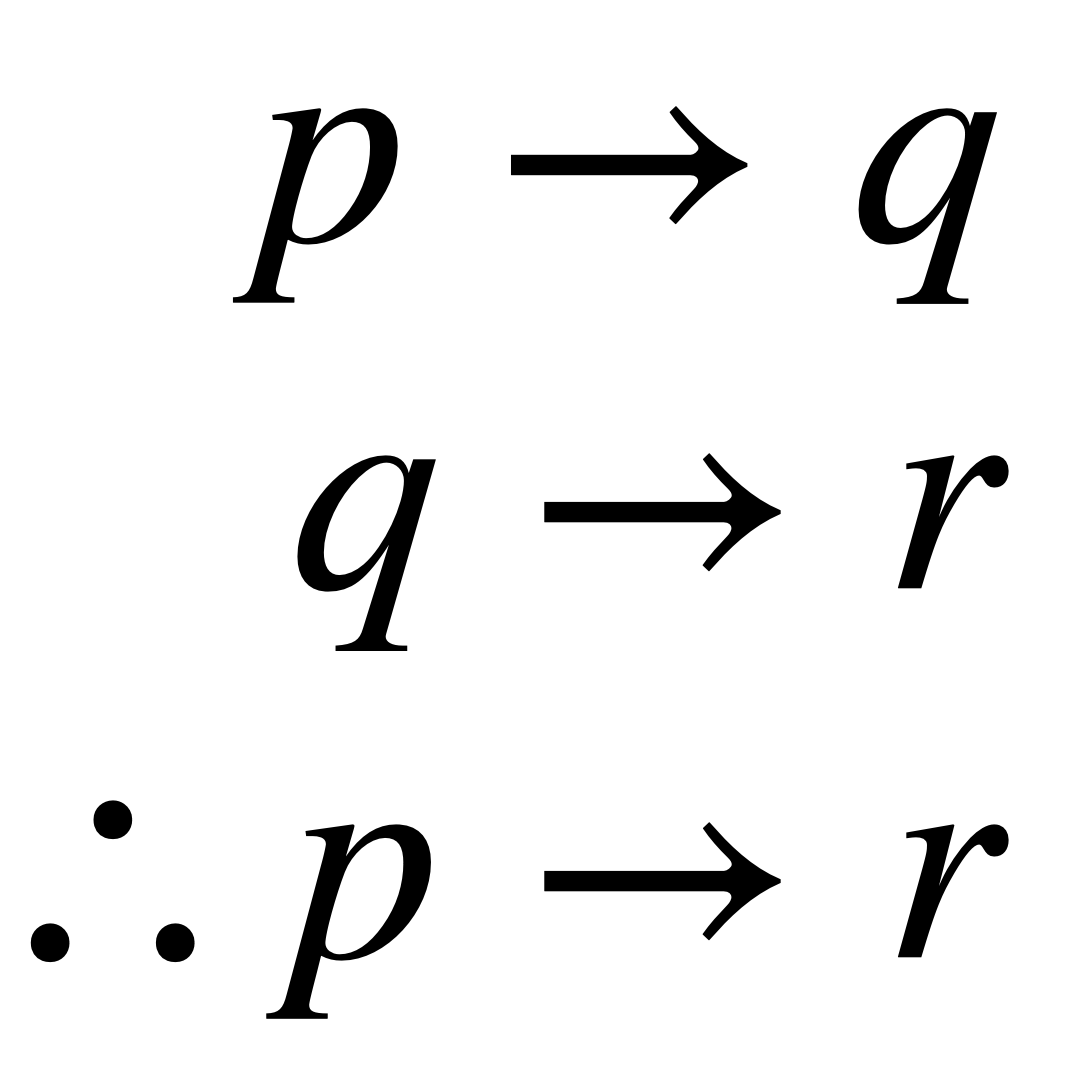
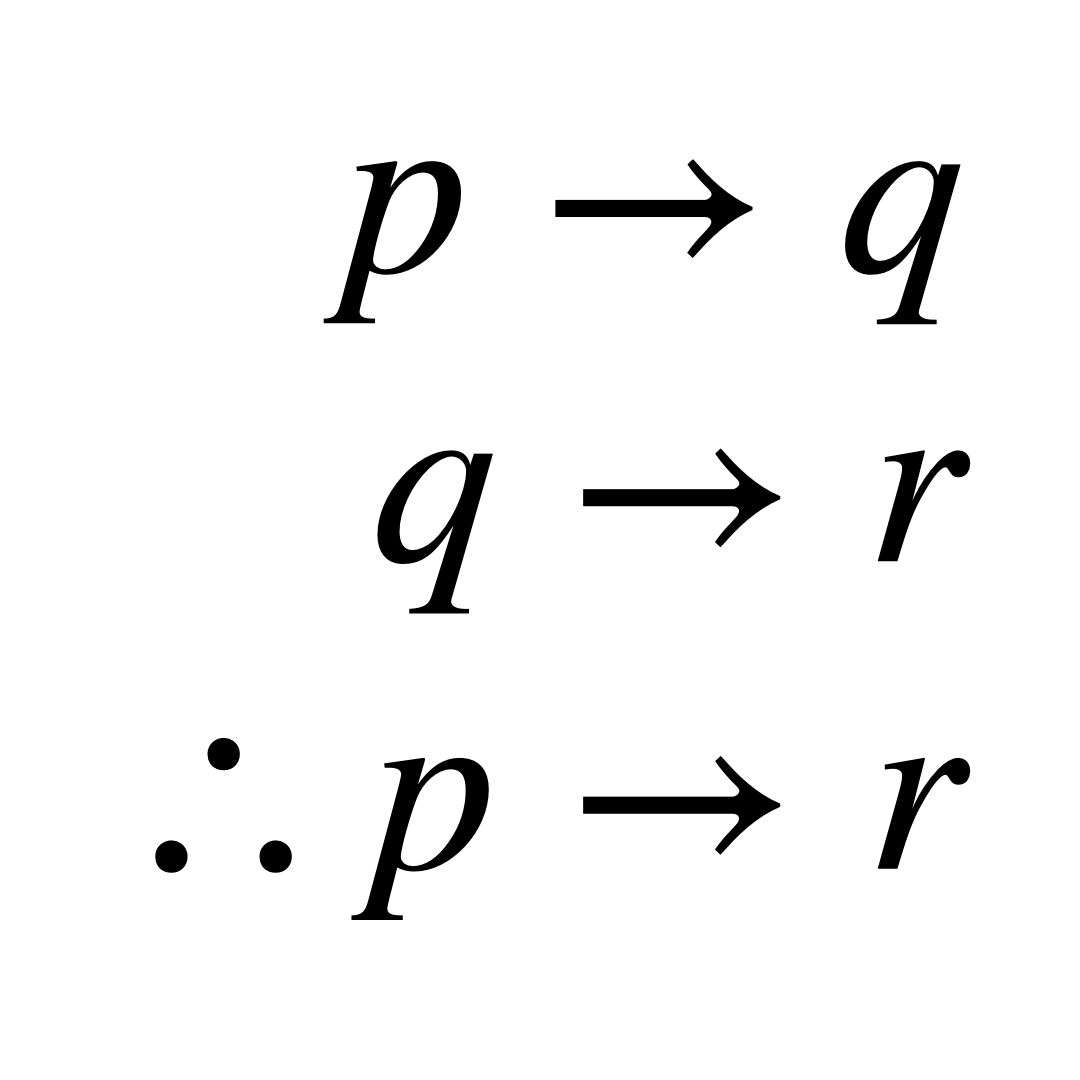
Colour page, taxt and multiline page

diff --git a/pages/text.html b/pages/text.html
@@ -1,0 +1,81 @@
+<!DOCTYPE html>
+<html>
+    <head>
+        <title>Set Theory</title>
+        <link rel="stylesheet" type="text/css" href="../style.css">
+    </head>
+    <body>
+
+
+        <p class="website-header">
+
+             <a id="home"  href="../index.html"> Home</a>
+             <a id="connect"  href="connect.html"> Connect</a>
+         </p>
+
+
+
+         <h1>Text, Multiline expressions and Alignment</h1>
+
+
+         <table>
+            <tr>
+                <th> Operation </th>
+                <th> Result </th>
+                <th> LaTeX code </th>
+            </tr>
+
+            <tr>
+                <td class="first_column"> Text <br><em class="additional">you can use spaces</em></td>
+                <td class="second_column"> <img src="../images/text_and_multiline/03.png"> </td>
+                <td class="third_column"> \text {hey !} </td>
+            </tr>
+
+            <tr>
+                <td class="first_column"> Right aligned </td>
+                <td class="second_column"> <img src="../images/text_and_multiline/01.png">  </td>
+                <td class="third_column"> \begin{equation} <br>
+                                            \begin{split} <br>
+                                            \begin{aligned} <br> <br>
+
+                                            p\rightarrow  q  \\ <br>
+                                            q \rightarrow r \\ <br>
+                                            \therefore p \rightarrow r <br> <br>
+
+                                            \end{aligned} <br>
+                                            \end{split} <br>
+                                            \end{equation} </td>
+            </tr>
+
+
+             <tr>
+                <td class="first_column"> Left aligned </td>
+                <td class="second_column"> <img src="../images/text_and_multiline/02.png">  </td>
+                <td class="third_column"> \begin{equation} <br>
+                                            \begin{split} <br>
+                                            \begin{aligned} <br> <br>
+
+                                            & p\rightarrow  q  \\ <br>
+                                            & q \rightarrow r \\ <br>
+                                            & \therefore p \rightarrow r <br> <br>
+
+                                            \end{aligned} <br>
+                                            \end{split} <br>
+                                            \end{equation} </td>
+            </tr>
+
+
+            </td>
+            </tr>
+
+         </table>
+
+
+
+
+
+        <footer> <p> &copy 2022 - Liz Aryslanova </p> </footer>
+
+
+    </body>
+</html>

diff --git a/pages/colour.html b/pages/colour.html
@@ -1,0 +1,55 @@
+<!DOCTYPE html>
+<html>
+    <head>
+        <title>Set Theory</title>
+        <link rel="stylesheet" type="text/css" href="../style.css">
+    </head>
+    <body>
+
+
+        <p class="website-header">
+
+             <a id="home"  href="../index.html"> Home</a>
+             <a id="connect"  href="connect.html"> Connect</a>
+         </p>
+
+
+
+         <h1>Colour</h1>
+
+
+         <table>
+            <tr>
+                <th> Operation </th>
+                <th> Result </th>
+                <th> LaTeX code </th>
+            </tr>
+
+            <tr>
+                <td class="first_column"> The entire expression <br><em class="additional">Use the menu <br> Format -> Style -> Colour</em></td>
+                <td class="second_column"> <img src="../images/colour/01.png"> </td>
+                <td class="third_column">  <img class="screenshot" src="../images/colour/01a.png"></td>
+            </tr>
+
+            <tr>
+                <td class="first_column"> Element of an expression <br><em class="additional">You can use the name of the colour (blue) <br> or the colour's HEX code </td>
+                <td class="second_column"> <img src="../images/colour/02.png">  </td>
+                <td class="third_column"> -\frac{{\color{blue}3}}{7}a^{{\color{995D81}7}} </td>
+            </tr>
+
+
+
+            </td>
+            </tr>
+
+         </table>
+
+
+
+
+
+        <footer> <p> &copy 2022 - Liz Aryslanova </p> </footer>
+
+
+    </body>
+</html>

diff --git a/index.html b/index.html
@@ -7,7 +7,7 @@
     <body>
 
 
-        <p class="website-header">
+        <p class="website-header-home">
 
             <a id="home"  href="index.html"> Home</a>
             <a id="connect"  href="connect.html"> Connect</a>
@@ -30,9 +30,10 @@
 
                 <a id="propositional_logic" class="box" href="pages/propositional_logic.html">Propositional logic</a>
 
-                <a id="mult_expressions" class="box" href="pages/___.html">Multiline expressions and alignment</a>
+                <a id="colour" class="box" href="pages/colour.html">Colour</a>
 
-                <a id="colour" class="box" href="pages/___.html">Colour</a>
+                <a id="mult_expressions" class="box" href="pages/text.html">Text, Multiline and Alignment</a>
+
 
                 <a id="matrices" class="box" href="pages/___.html">Matrices</a>
 
@@ -46,7 +47,7 @@
         </nav>
 
 
-        <footer id="footer"> <p> &copy 2022 - Liza Aryslanova </p> </footer>
+        <footer id="footer"> <p> &copy 2022 - Liz Aryslanova </p> </footer>
 
     </body>
 </html>

diff --git a/style.css b/style.css
@@ -100,11 +100,13 @@ nav {
 }
 
 #mult_expressions {
-
+    background-image: url(images/index_buttons/text.png);
+    background-size: cover;
 }
 
 #colour {
-
+    background-image: url(images/index_buttons/colour.png);
+    background-size: cover;
 }
 
 #matrices {
@@ -123,6 +125,12 @@ nav {
 img {
     padding: 5px;
     width: 80px;
+}
+
+.screenshot {
+    width: 350px;
+    padding: 0;
+    margin: 0;
 }
 
 
@@ -193,6 +201,20 @@ h1 {
     vertical-align: middle;
     text-align: left;
 }
+
+
+.website-header-home {
+
+    background-color: #59504A;
+    margin: 0;
+    padding: 7px 0px 7px 20px;
+
+
+    vertical-align: middle;
+    text-align: left;
+}
+
+
 
 #connect { padding-left: 12px; }
 

diff --git a/pages/basic_arithmetic.html b/pages/basic_arithmetic.html
@@ -145,7 +145,7 @@
          </table>
 
 
-           <footer> <p> &copy 2022 - Liza Aryslanova </p> </footer>
+           <footer> <p> &copy 2022 - Liz Aryslanova </p> </footer>
 
 
 

diff --git a/pages/propositional_logic.html b/pages/propositional_logic.html
@@ -121,7 +121,7 @@
 
 
 
-         <footer> <p> &copy 2022 - Liza Aryslanova </p> </footer>
+         <footer> <p> &copy 2022 - Liz Aryslanova </p> </footer>
 
 
     </body>

diff --git a/pages/set_theory.html b/pages/set_theory.html
@@ -199,7 +199,7 @@
 
 
 
-        <footer> <p> &copy 2022 - Liza Aryslanova </p> </footer>
+        <footer> <p> &copy 2022 - Liz Aryslanova </p> </footer>
 
 
     </body>
